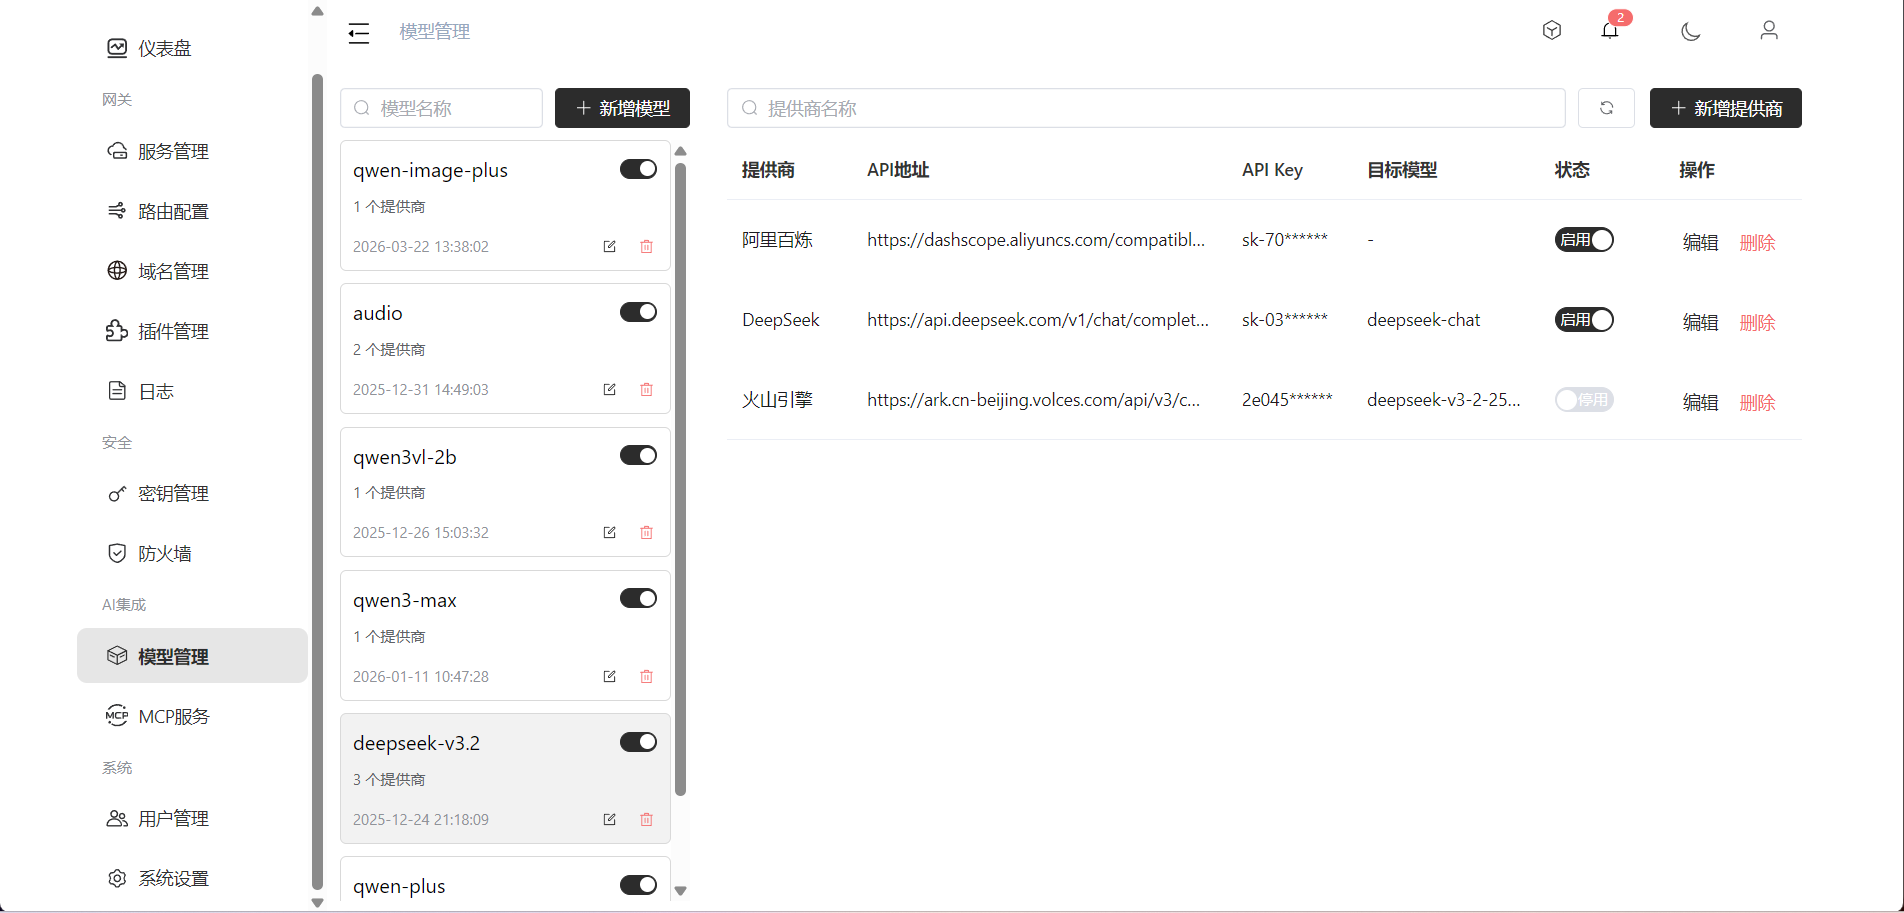
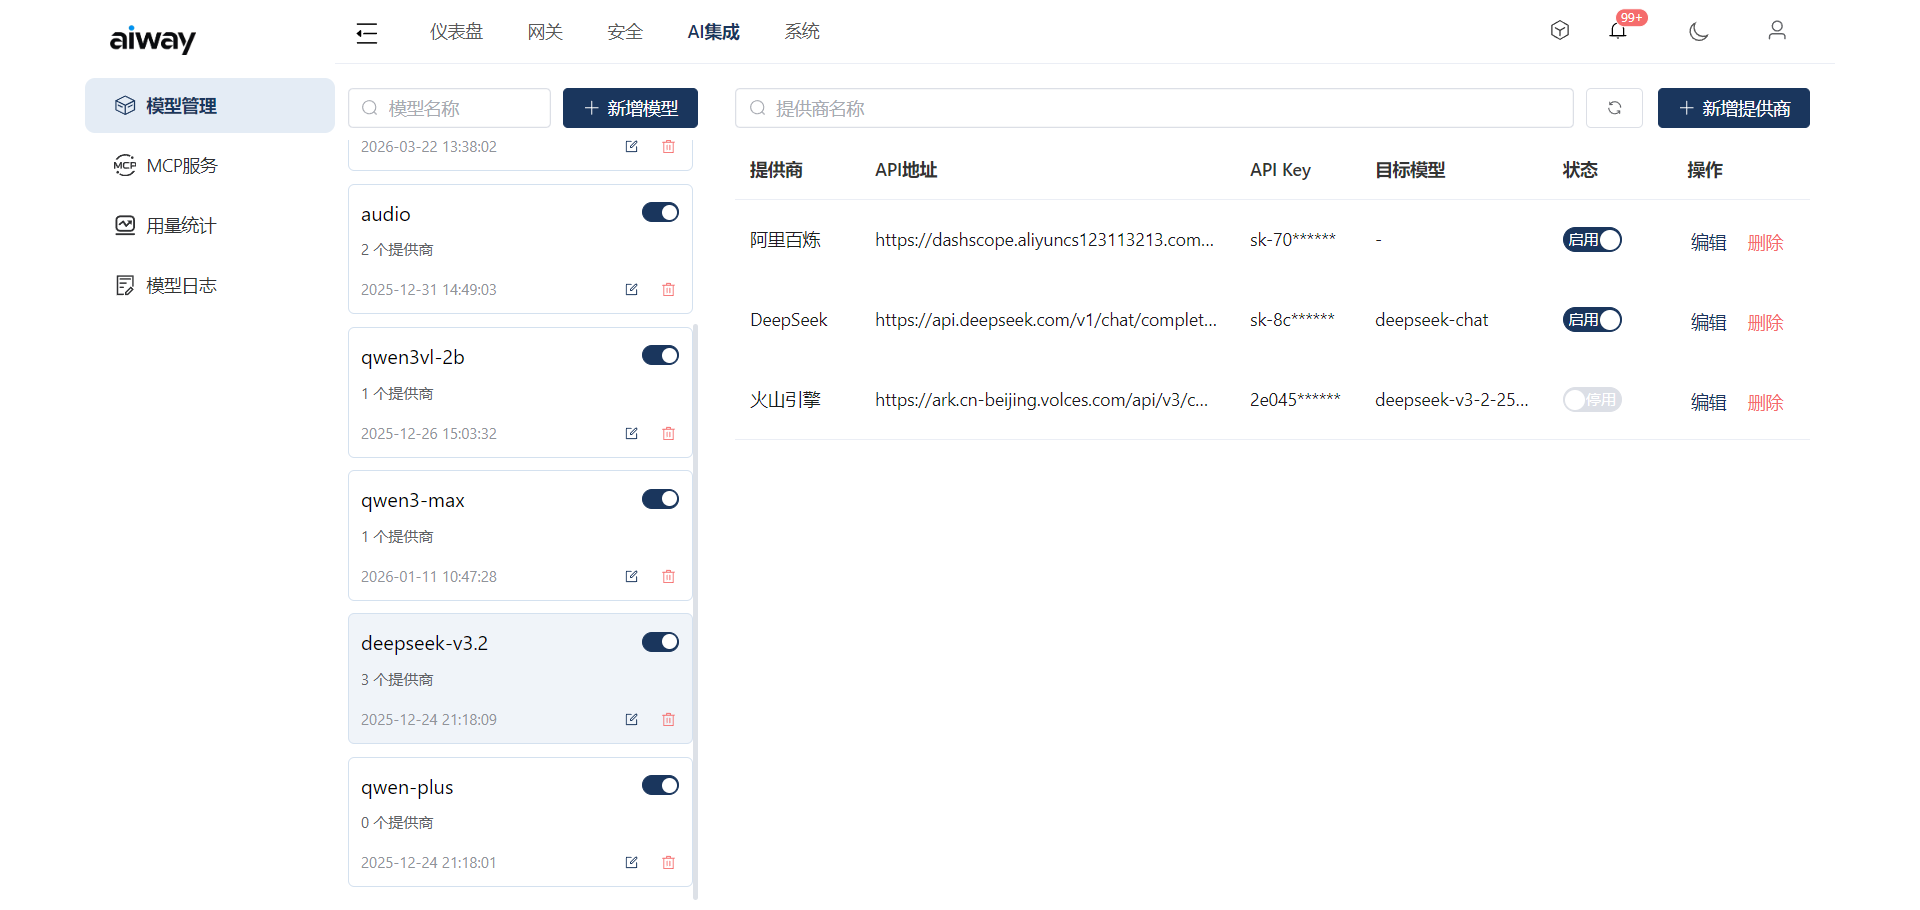
update docs

diff --git a/docs/gateway/model-proxy.md b/docs/gateway/model-proxy.md
@@ -1,6 +1,18 @@
 # AI 模型代理
 
-将 AI 模型请求透明转发到不同的模型供应商，兼容OpenAI API规范。
+将模型请求转发到不同的模型供应商，使用容OpenAI API兼容格式。
+
+支持模型名称映射，例如：
+
+```text
+my-model -> deepseek-v4-flash
+         -> qwen3.7-plus
+         -> ...
+```
+
+可自定义模型名称，并转发到多个提供商处理，支持按随机、轮询、加权随机进行负载均衡，支持服务商接口故障后自动切换。
+
+可自定义模型插件改写请求和响应，实现不同提供商的统一输入和输出处理。
 
 ## 架构
 
@@ -16,17 +28,41 @@
 
 请求路径以 `/v1/model` 开头时，网关将其识别为模型代理请求，进入模型调用链。
 
-## 供应商配置
+## 模型和供应商配置
 
 通过控制台的模型代理页面配置，支持：
 
-- **供应商列表**：添加不同 AI 供应商（OpenAI、Anthropic 等）
-- **模型映射**：将统一模型名映射到不同供应商的具体模型
-- **API Key 管理**：管理各供应商的认证密钥
-- **插件扩展**：每个供应商可配置专属的请求转换插件
+- 供应商列表：添加不同 AI 供应商（OpenAI、Anthropic 等）
+- 模型映射：将统一模型名映射到不同供应商的具体模型
+- API Key 管理：管理各供应商的认证密钥
+- 插件扩展：每个供应商可配置专属的请求转换插件
 
-![model-manage.png](../images/model-manage.png)
+![模型管理](../images/model-manage.png)
 
 ## 流式响应
 
 支持 SSE 流式响应，实现逐 token 输出。
+
+## 用量统计和日志、
+
+可在“用量统计"和“模型日志”页面中查看模型的调用情况
+![模型用量](../images/model-usage.png)
+
+## 支持的API
+
+### 对话补全
+
+- API: `POST` `/v1/model/completions`
+
+- 参数：详见 OpenAI API 相关文档
+
+### 创建图像
+
+- API: `POST` `/v1/model/images/generations`
+- 参数：详见 OpenAI API 相关文档
+
+### 创建语音
+
+- API: `POST` `/v1/model/audio/transcriptions`
+- 参数：详见 OpenAI API 相关文档
+
